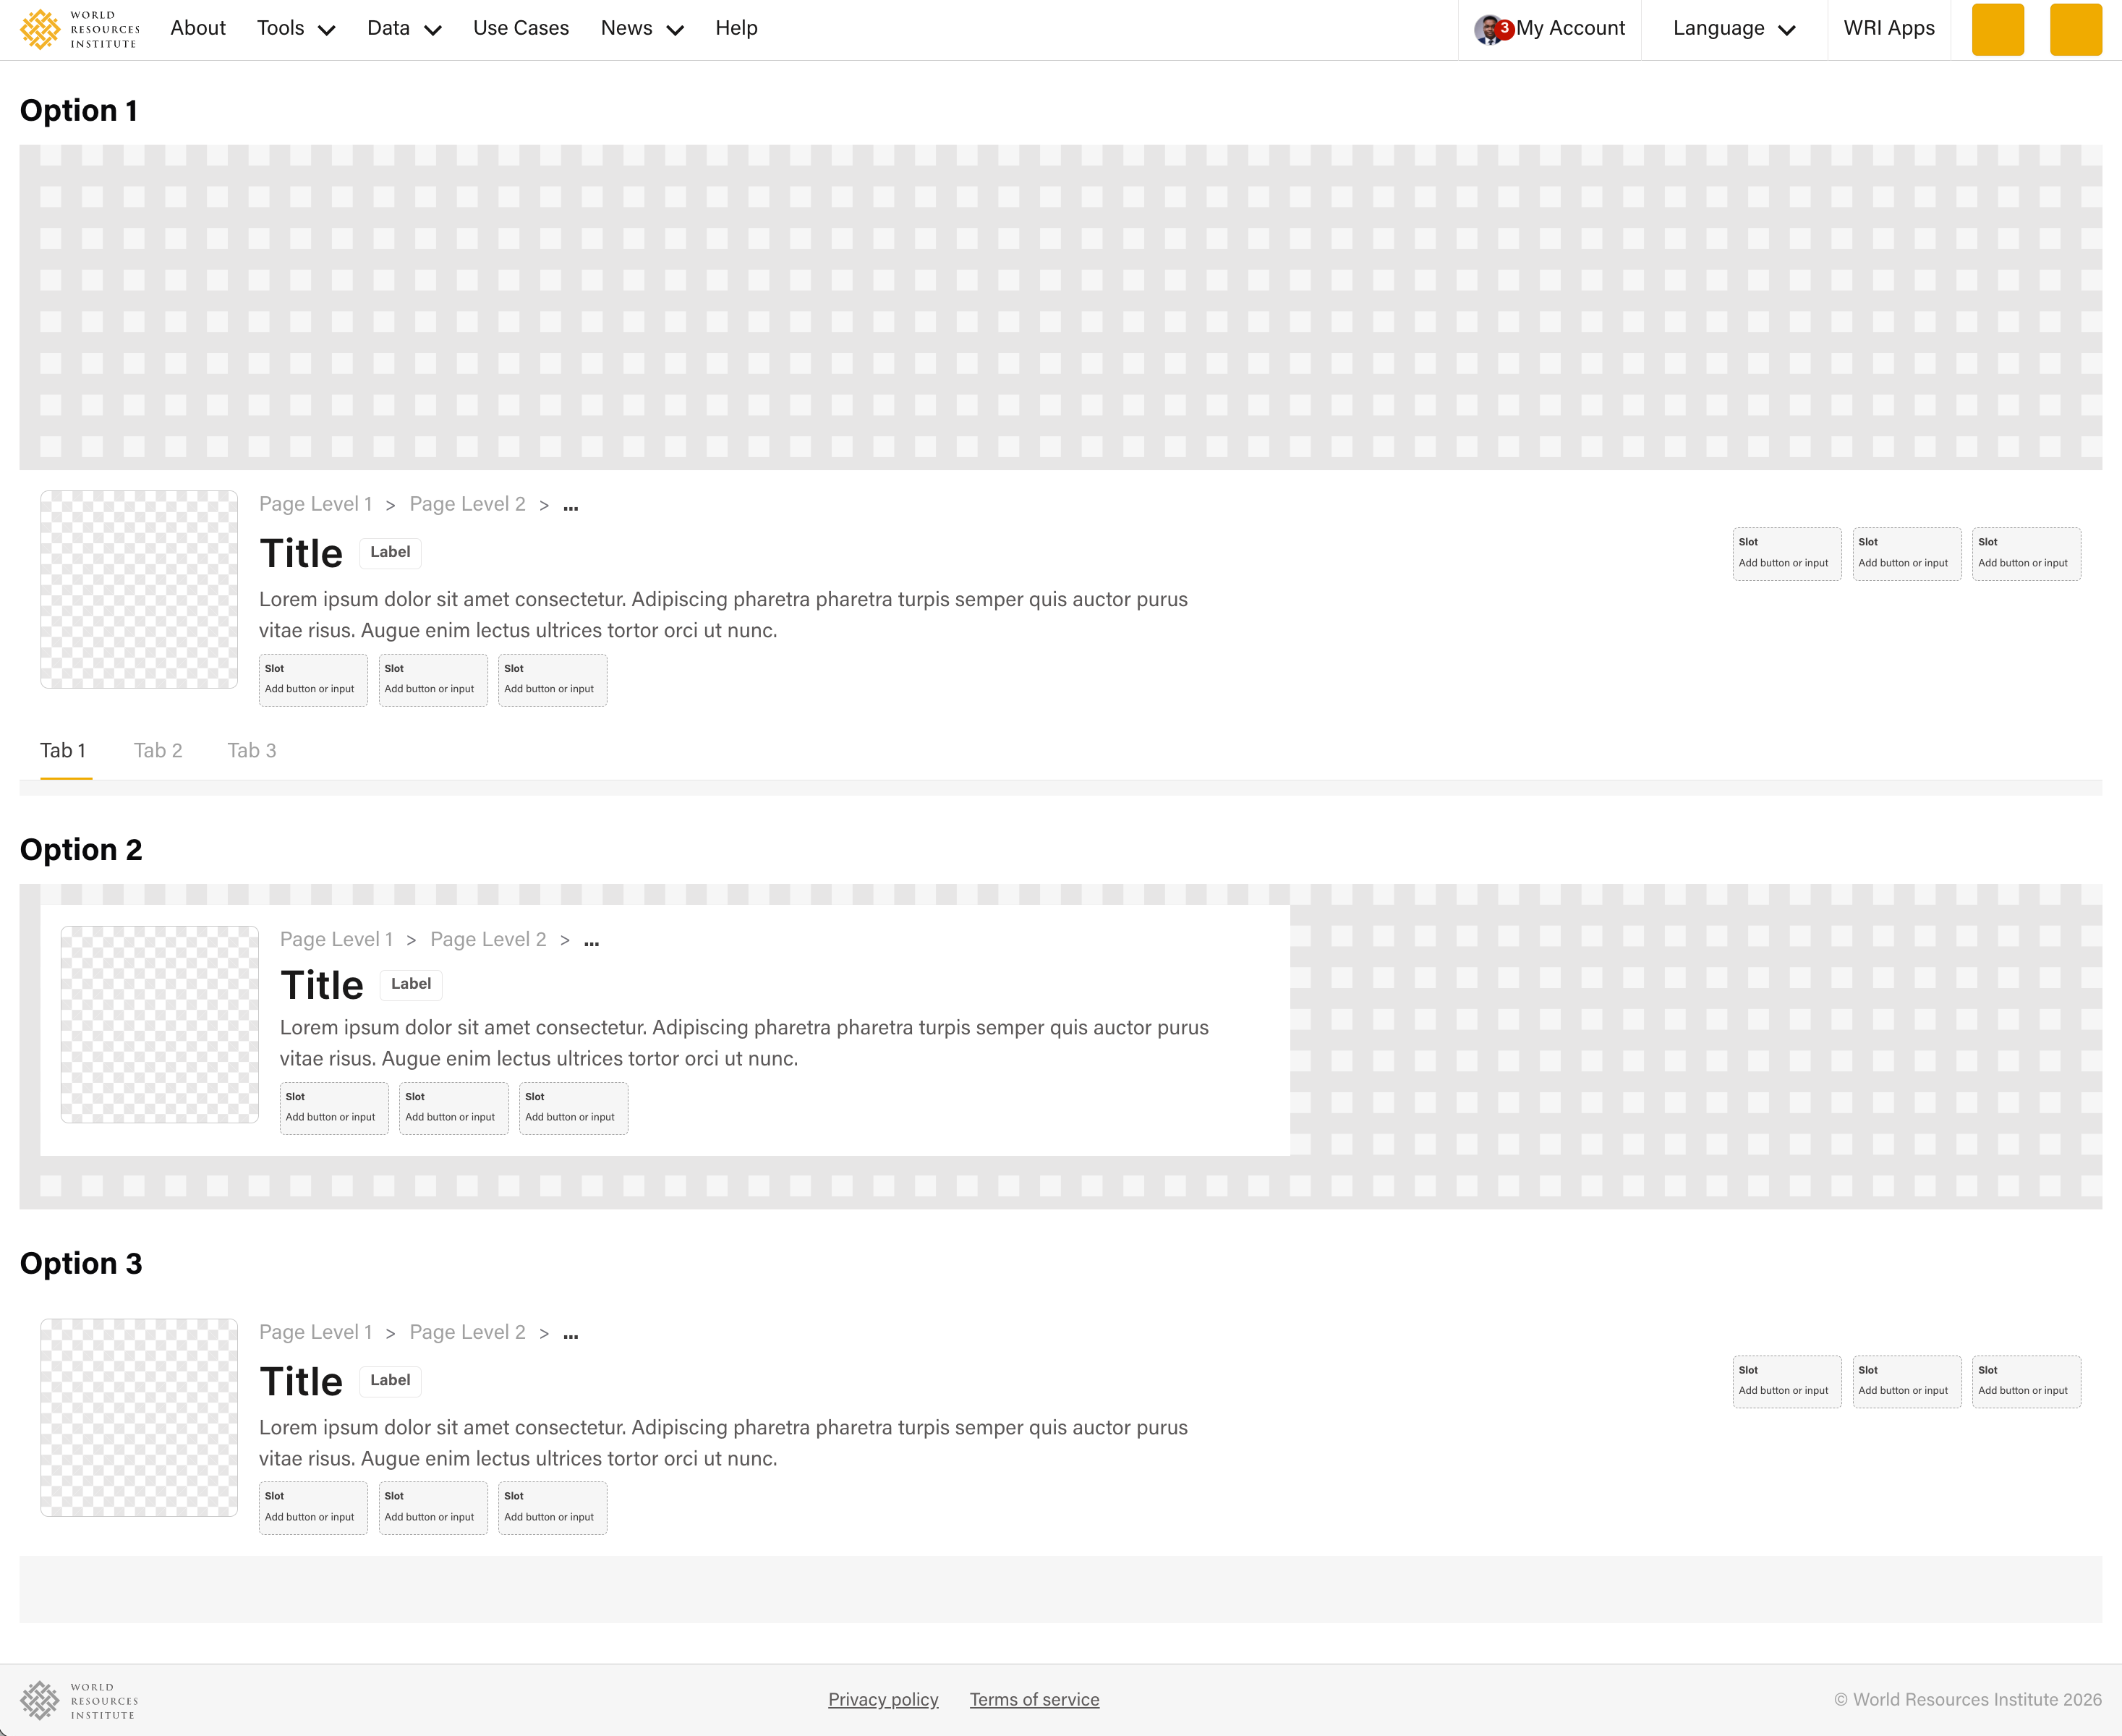
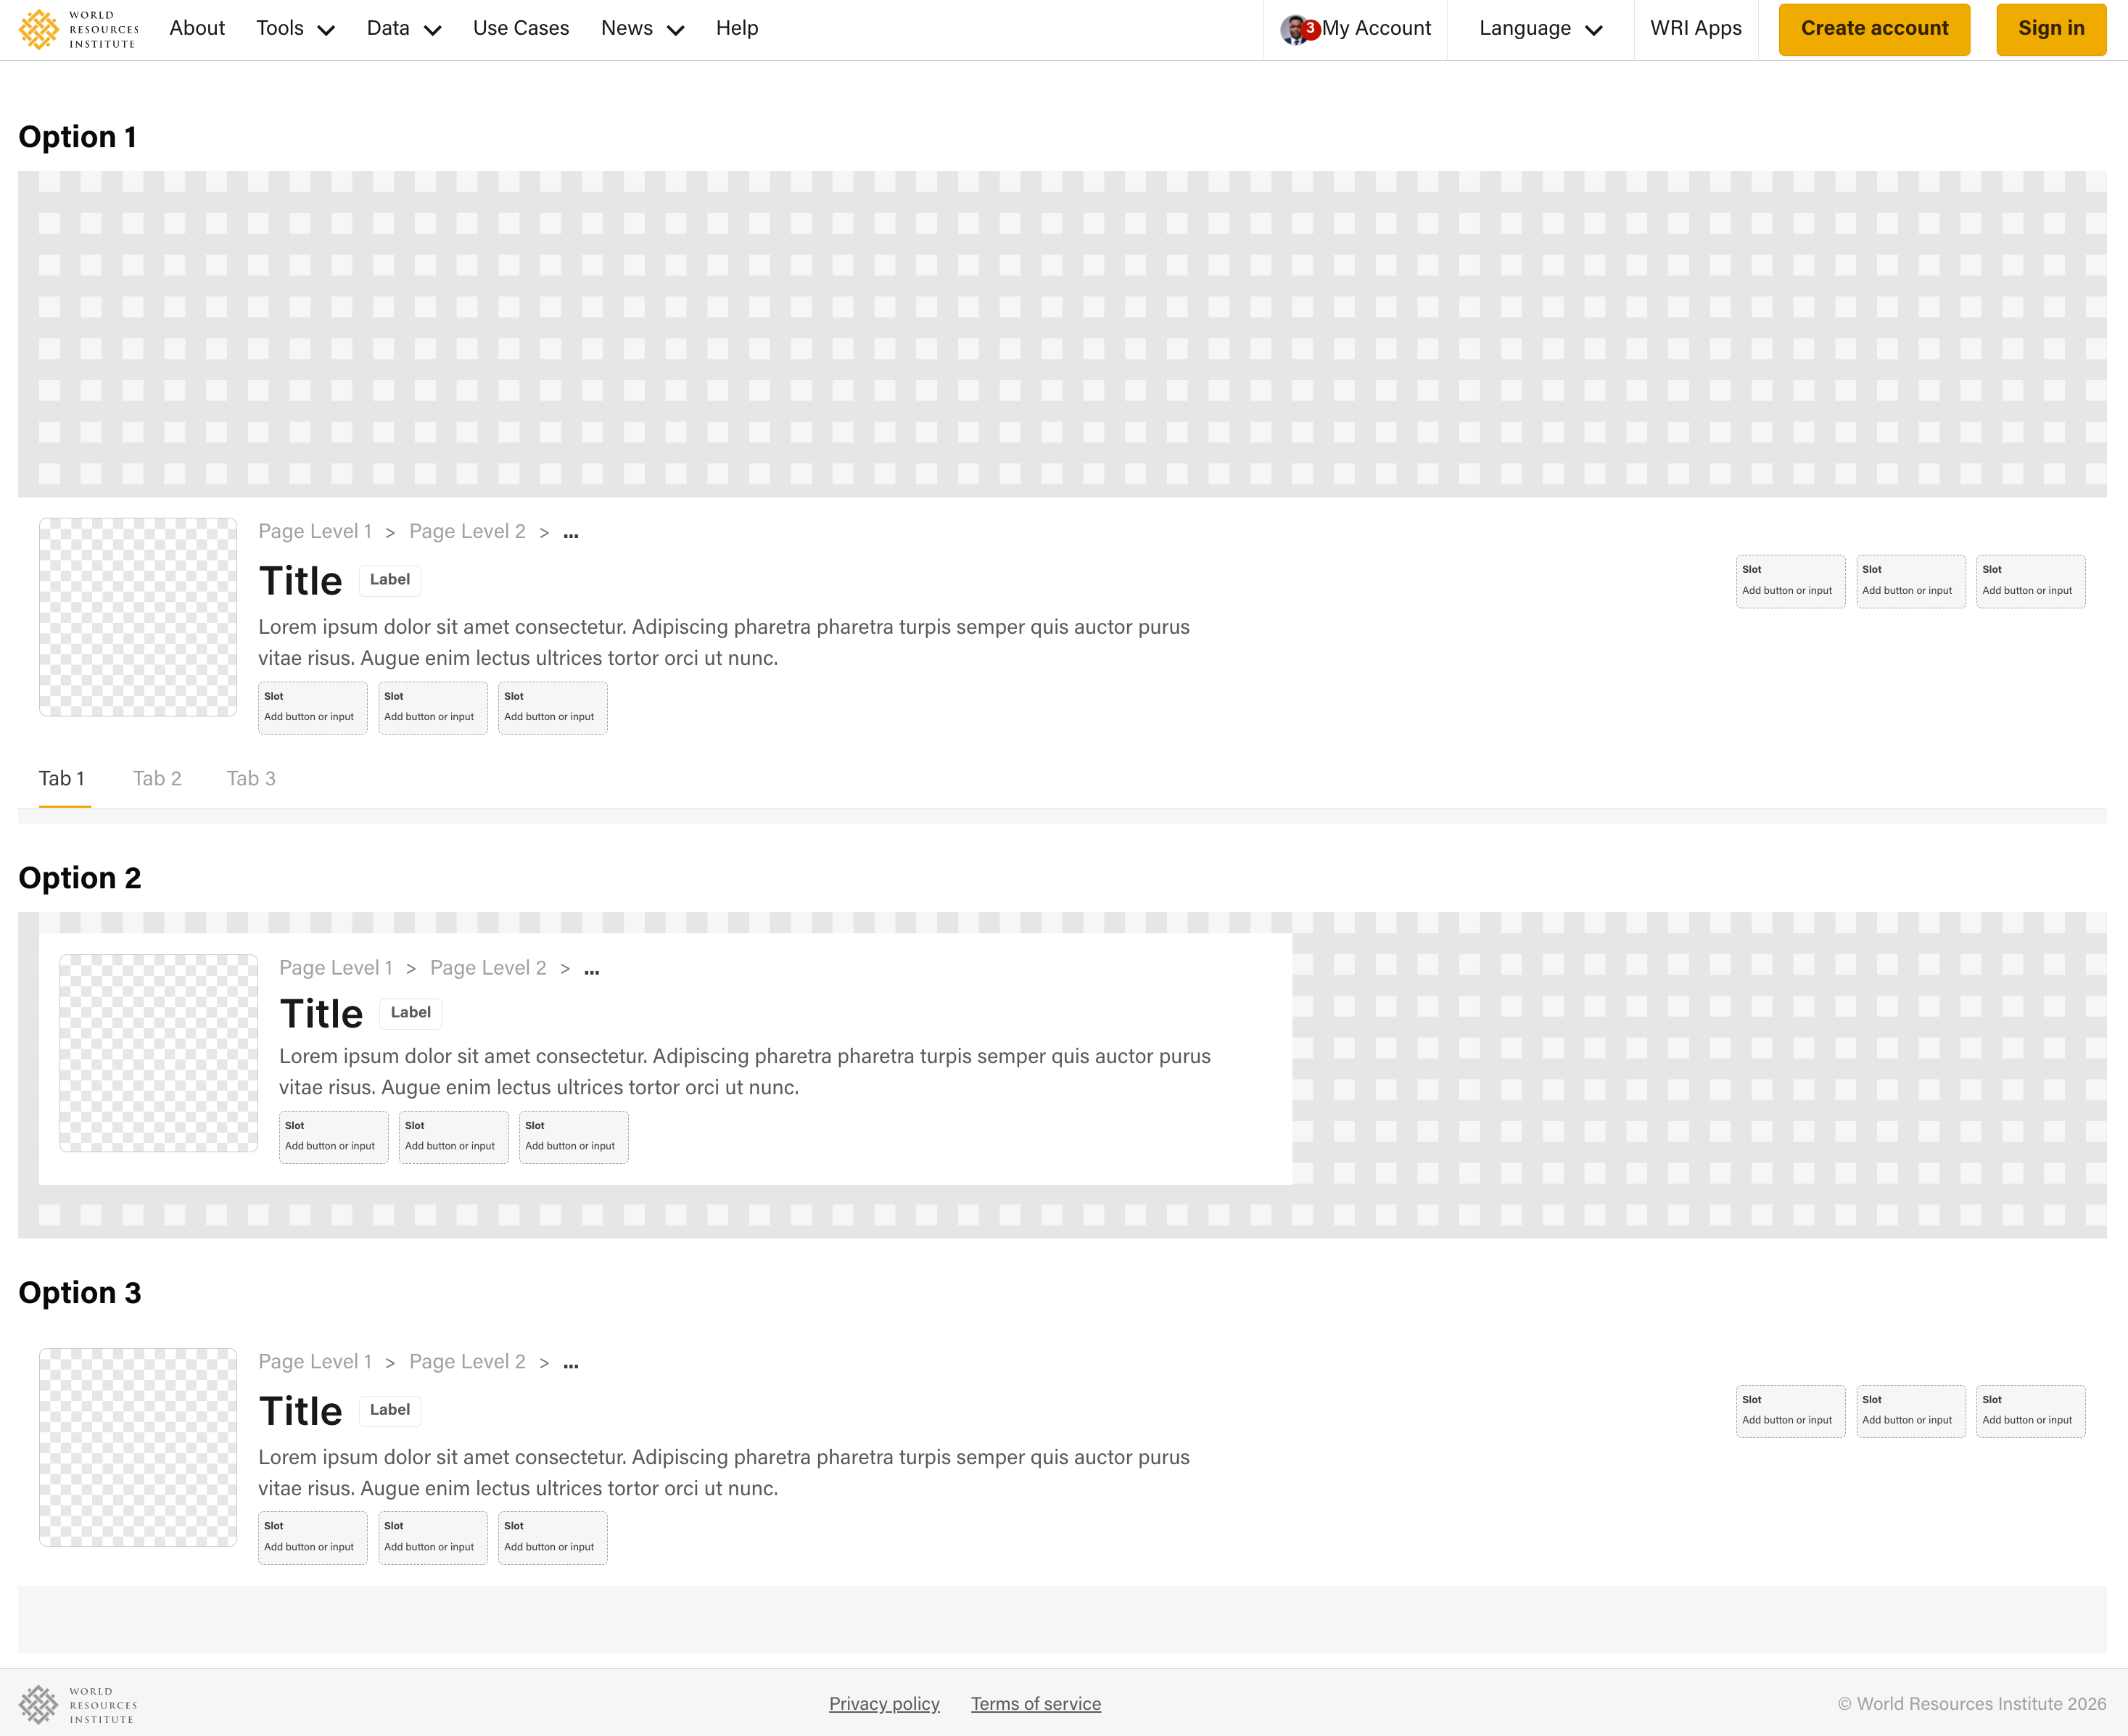
[DS-304] - landing page (#30)
* [DS-304] - landing page

* [DS-304] - landing page

diff --git a/src/components/LandingPage/TargetAudienceSection.tsx b/src/components/LandingPage/TargetAudienceSection.tsx
@@ -1,0 +1,81 @@
+'use client'
+
+import Image from 'next/image'
+
+const AUDIENCES = [
+  {
+    label: 'Government agencies:',
+    description:
+      'National and sub-national policymakers shaping restoration strategies and programs.',
+  },
+  {
+    label: 'NGOs and development partners:',
+    description:
+      'Organizations providing technical assistance, capacity building, and funding for on-the-ground initiatives',
+  },
+  {
+    label: 'Private sector and funders',
+    description:
+      'Companies investing in or contributing to restoration efforts.',
+  },
+  {
+    label: 'Landscape-level partnerships:',
+    description:
+      'Multi-stakeholder platforms coordinating restoration across sectors.',
+  },
+]
+
+export const TargetAudienceSection = () => {
+  return (
+    <section className='bg-white py-16 lg:py-24'>
+      <div className='mx-auto max-w-screen-xl px-4 lg:px-12 flex flex-col lg:flex-row gap-12 lg:gap-16 items-center'>
+        <div className='flex-1 w-full'>
+          <div className='relative rounded-2xl overflow-hidden aspect-[4/3]'>
+            <Image
+              src='/images/is-this-tool-for-you.jpg'
+              alt='People working in a restoration landscape'
+              className='object-cover'
+              sizes='(max-width: 1024px) 100vw, 50vw'
+              fill
+            />
+          </div>
+          <p className='text-neutral-500 text-xs italic mt-1 text-right'>
+            Serrah Galos/WRI
+          </p>
+        </div>
+
+        <div className='flex-1'>
+          <h2 className='text-3xl lg:text-4xl font-extrabold text-gray-900 mb-4'>
+            Is this tool for you?
+          </h2>
+          <p className='text-gray-600 text-base leading-relaxed mb-3'>
+            This tool is designed for people and organizations involved in
+            planning, managing, or scaling ecosystem restoration. It is
+            primarily used by technical teams and decisionmakers to assess
+            current conditions and identify what needs to be strengthened to
+            enable effective restoration implementation.
+          </p>
+          <p className='text-gray-600 text-base leading-relaxed mb-4'>
+            It may be especially useful for:
+          </p>
+          <ul className='space-y-2'>
+            {AUDIENCES.map((audience) => (
+              <li
+                key={audience.label}
+                className='flex gap-2 text-gray-700 text-base leading-relaxed'
+              >
+                <span className='mt-0.5 text-gray-400 flex-shrink-0'>•</span>
+                <span>
+                  <strong className='font-semibold text-gray-900'>
+                    {audience.label}
+                  </strong>{' '}
+                  {audience.description}
+                </span>
+              </li>
+            ))}
+          </ul>
+        </div>
+      </div>
+    </section>
+  )
+}

diff --git a/src/components/LandingPage/ProcessSection.tsx b/src/components/LandingPage/ProcessSection.tsx
@@ -1,0 +1,71 @@
+'use client'
+
+const STEPS = [
+  {
+    label: 'Before you start',
+    title: 'Plan your approach',
+    description:
+      'Plan stakeholder consultations and gather supporting materials.',
+  },
+  {
+    label: 'Step 1',
+    title: 'Define the scope',
+    description: 'Identify the landscape or geography you want to assess.',
+  },
+  {
+    label: 'Step 2',
+    title: 'Assess key success factors',
+    description:
+      'Evaluate whether the key conditions for restoration are in place.',
+  },
+  {
+    label: 'Step 3',
+    title: 'Identify strategies',
+    description:
+      'Define actions that could address gaps and strengthen conditions for success.',
+  },
+]
+
+export const ProcessSection = () => {
+  return (
+    <section className='bg-primary-100 py-16 lg:py-24'>
+      <div className='mx-auto max-w-screen-xl px-4 lg:px-12'>
+        <div className='text-center mb-12'>
+          <h2 className='text-3xl lg:text-4xl font-extrabold text-gray-900 mb-4'>
+            How does the diagnostic process work?
+          </h2>
+          <p className='text-gray-600 text-base leading-relaxed max-w-2xl mx-auto'>
+            The Restoration Diagnostic follows a simple process and is best
+            completed collaboratively, bringing together perspectives from
+            stakeholders and experts.
+          </p>
+        </div>
+
+        <div className='grid grid-cols-1 sm:grid-cols-2 lg:grid-cols-4 gap-6'>
+          {STEPS.map((step, idx) => {
+            const headerColor =
+              idx === 0 ? 'bg-neutral-200' : 'bg-secondary-100'
+            return (
+              <div
+                key={step.label}
+                className='bg-white rounded-lg flex flex-col border border-neutral-400 radius-lg overflow-hidden'
+              >
+                <div className={`text-xs font-semibold p-2 ${headerColor}`}>
+                  {step.label}
+                </div>
+                <div className='p-3'>
+                  <h3 className={`text-base font-bold leading-snug`}>
+                    {step.title}
+                  </h3>
+                  <p className='text-sm text-gray-600 leading-relaxed flex-1'>
+                    {step.description}
+                  </p>
+                </div>
+              </div>
+            )
+          })}
+        </div>
+      </div>
+    </section>
+  )
+}

diff --git a/src/components/LandingPage/KeyFactorsSection.tsx b/src/components/LandingPage/KeyFactorsSection.tsx
@@ -1,0 +1,64 @@
+'use client'
+
+import Image from 'next/image'
+
+const CATEGORIES = [
+  'cultural',
+  'political',
+  'ecological',
+  'financial',
+  'institutional',
+  'social',
+]
+
+export const KeyFactorsSection = () => {
+  return (
+    <section className='bg-white py-16 lg:py-24'>
+      <div className='mx-auto max-w-screen-xl px-4 lg:px-12 flex flex-col lg:flex-row gap-12 lg:gap-16 items-center'>
+        <div className='flex-1'>
+          <h2 className='text-3xl lg:text-4xl font-extrabold text-gray-900 mb-6'>
+            Assess the key factors for restoration success
+          </h2>
+          <p className='text-gray-600 text-base leading-relaxed'>
+            The Restoration Diagnostic helps you determine whether the key
+            conditions for ecosystem restoration are in place—and what may be
+            missing.
+          </p>
+          <p className='text-gray-600 text-base leading-relaxed mb-4'>
+            It highlights opportunities, gaps, and challenges across 31
+            cultural, financial, institutional, political, and ecological
+            factors.
+          </p>
+          <p className='text-gray-600 text-base leading-relaxed'>
+            This enables you to move from high-level planning to focused,
+            effective strategies that can succeed in the long-term.
+          </p>
+        </div>
+
+        <div className='flex-shrink-0 w-full lg:w-auto'>
+          <div className='grid grid-cols-3 gap-4 lg:gap-6'>
+            {CATEGORIES.map((category) => (
+              <div
+                key={category}
+                className='flex flex-col items-center gap-3 p-6 rounded-lg bg-secondary-100 border border-secondary-200'
+              >
+                <div className='flex items-center justify-center'>
+                  <Image
+                    src={`/images/${category}.png`}
+                    alt={category}
+                    width={40}
+                    height={40}
+                    className='w-10 h-10 object-contain'
+                  />
+                </div>
+                <span className='text-sm font-medium text-secondary-700 text-center'>
+                  {category.charAt(0).toUpperCase() + category.slice(1)}
+                </span>
+              </div>
+            ))}
+          </div>
+        </div>
+      </div>
+    </section>
+  )
+}

diff --git a/src/components/LandingPage/HeroSection.tsx b/src/components/LandingPage/HeroSection.tsx
@@ -1,0 +1,63 @@
+'use client'
+
+import Image from 'next/image'
+import { Button } from '@worldresources/wri-design-systems'
+
+const ExternalLinkIcon = () => (
+  <svg
+    xmlns='http://www.w3.org/2000/svg'
+    viewBox='0 0 24 24'
+    fill='none'
+    stroke='currentColor'
+    strokeWidth='2'
+    strokeLinecap='round'
+    strokeLinejoin='round'
+    className='w-4 h-4'
+    aria-hidden='true'
+  >
+    <path d='M18 13v6a2 2 0 0 1-2 2H5a2 2 0 0 1-2-2V8a2 2 0 0 1 2-2h6' />
+    <polyline points='15 3 21 3 21 9' />
+    <line x1='10' y1='14' x2='21' y2='3' />
+  </svg>
+)
+
+export const HeroSection = () => {
+  return (
+    <section className='bg-gradient-to-b from-white to-primary-200 overflow-hidden py-[4rem] pt-[calc(4rem+50px)] lg:py-[9rem] relative'>
+      <div className='mx-auto max-w-screen-xl px-4 flex flex-col lg:flex-row  lg:items-center justify-center lg:justify-start min-h-[400px] lg:min-h-[500px]'>
+        <div className='relative z-10 w-full lg:w-[50%] '>
+          <h1 className='text-4xl lg:text-5xl font-extrabold tracking-tight leading-tight text-gray-900 mb-6'>
+            Restoration Diagnostic Tool
+          </h1>
+          <p className='text-gray-700 text-lg leading-relaxed mb-8'>
+            A rapid assessment tool developed as part of ROAM to help you
+            evaluate whether your geography is ready for ecosystem restoration
+            and define strategies for long-term success.
+          </p>
+          <div className='flex flex-col sm:flex-row gap-4 items-start sm:items-center'>
+            <Button variant='primary'>Start diagnostic</Button>
+            <a
+              href=''
+              target='_blank'
+              rel='noopener noreferrer'
+              className='inline-flex items-center gap-2 text-base font-semibold text-gray-900 hover:text-gray-600 transition-colors bg-transparent border-none cursor-pointer'
+            >
+              ROAM methodology
+              <ExternalLinkIcon />
+            </a>
+          </div>
+        </div>
+      </div>
+
+      <div className='hidden lg:block absolute top-1/2 -translate-y-1/2 right-0 w-[60%] xl:w-[50%] translate-x-[30%]'>
+        <Image
+          src='/images/computer-mockup-full.png'
+          alt='Restoration Diagnostic tool interface'
+          width={1290}
+          height={840}
+          className='w-full h-auto'
+        />
+      </div>
+    </section>
+  )
+}

diff --git a/src/components/LandingPage/CTASection.tsx b/src/components/LandingPage/CTASection.tsx
@@ -1,0 +1,58 @@
+'use client'
+
+import { Button } from '@worldresources/wri-design-systems'
+import { CheckIcon } from '@/components/icons'
+import { Box } from '@chakra-ui/react'
+
+const BENEFITS = [
+  'A snapshot of the enabling environment for ecosystem restoration in your geography or landscape.',
+  'A list of strategies to address gaps or weaknesses in key success factors',
+  'A shared basis for discussion among stakeholders and decision-makers',
+]
+
+export const CTASection = () => {
+  return (
+    <section className='bg-white py-16 lg:py-24'>
+      <div className='mx-auto max-w-screen-xl px-4 lg:px-12'>
+        <div className='text-center max-w-2xl mx-auto mb-16'>
+          <h2 className='text-3xl lg:text-4xl font-extrabold text-gray-900 mb-4'>
+            Get started with the diagnostic
+          </h2>
+          <p className='text-gray-600 text-lg leading-relaxed mb-8'>
+            Create your diagnostic to assess restoration readiness and identify
+            priorities for action. By completing the diagnostic, you will gain:
+          </p>
+          <ul className='space-y-3 mb-10 max-w-xl mx-auto text-left'>
+            {BENEFITS.map((benefit) => (
+              <li key={benefit} className='flex items-center gap-3'>
+                <CheckIcon className='text-success-500' />
+                <span className='text-gray-700 text-base leading-relaxed'>
+                  {benefit}
+                </span>
+              </li>
+            ))}
+          </ul>
+          <Button variant='primary'>Start diagnostic</Button>
+        </div>
+
+        <Box className='max-w-2xl mx-auto'>
+          <div className='my-4 px-4 py-3 border border-neutral-300 rounded-lg bg-white'>
+            <div className='flex items-center justify-between gap-4'>
+              <div className='flex-1'>
+                <h3 className='font-bold text-lg text-neutral-800'>
+                  Complete offline
+                </h3>
+                <p className='text-neutral-800'>
+                  If you need to work without an internet connection, you can
+                  request a simplified spreadsheet version of the diagnostic.
+                  For the full experience, we recommend using the online tool.
+                </p>
+              </div>
+              <Button variant='secondary' label='Get resource' />
+            </div>
+          </div>
+        </Box>
+      </div>
+    </section>
+  )
+}

diff --git a/src/app/landing-page/page.tsx b/src/app/landing-page/page.tsx
@@ -1,0 +1,17 @@
+import { HeroSection } from '@/components/LandingPage/HeroSection'
+import { KeyFactorsSection } from '@/components/LandingPage/KeyFactorsSection'
+import { TargetAudienceSection } from '@/components/LandingPage/TargetAudienceSection'
+import { ProcessSection } from '@/components/LandingPage/ProcessSection'
+import { CTASection } from '@/components/LandingPage/CTASection'
+
+export default function Home() {
+  return (
+    <>
+      <HeroSection />
+      <KeyFactorsSection />
+      <TargetAudienceSection />
+      <ProcessSection />
+      <CTASection />
+    </>
+  )
+}

diff --git a/src/components/Navbar.tsx b/src/components/Navbar.tsx
@@ -126,8 +126,12 @@ const Navbar = () => {
         <p key='wri-apps'>WRI Apps</p>,
       ]}
       actionsSection={[
-        { ariaLabel: 'Create account', onClick: () => {} },
-        { ariaLabel: 'Sign in', onClick: () => {} },
+        {
+          children: 'Create account',
+          ariaLabel: 'Create account',
+          onClick: () => {},
+        },
+        { children: 'Sign in', ariaLabel: 'Sign in', onClick: () => {} },
       ]}
       maxWidth={1440}
       fixed

diff --git a/src/app/page.tsx b/src/app/page.tsx
@@ -70,6 +70,12 @@ const pages = [
     category: 'Headers',
     image: `${repoBase}/images/page-header.png`,
   },
+  {
+    label: 'Restoration Page',
+    href: ROUTES.LANDING_PAGE,
+    category: 'Landing Pages',
+    image: `${repoBase}/images/restoration-landing-page.png`,
+  },
 ]
 
 export default function Home() {

diff --git a/src/constants.tsx b/src/constants.tsx
@@ -19,4 +19,5 @@ export const ROUTES = {
   CHARTS: '/charts',
   TABULAR_INTERFACES: '/tabular-interfaces',
   PAGE_HEADER: '/page-header',
+  LANDING_PAGE: '/landing-page',
 }